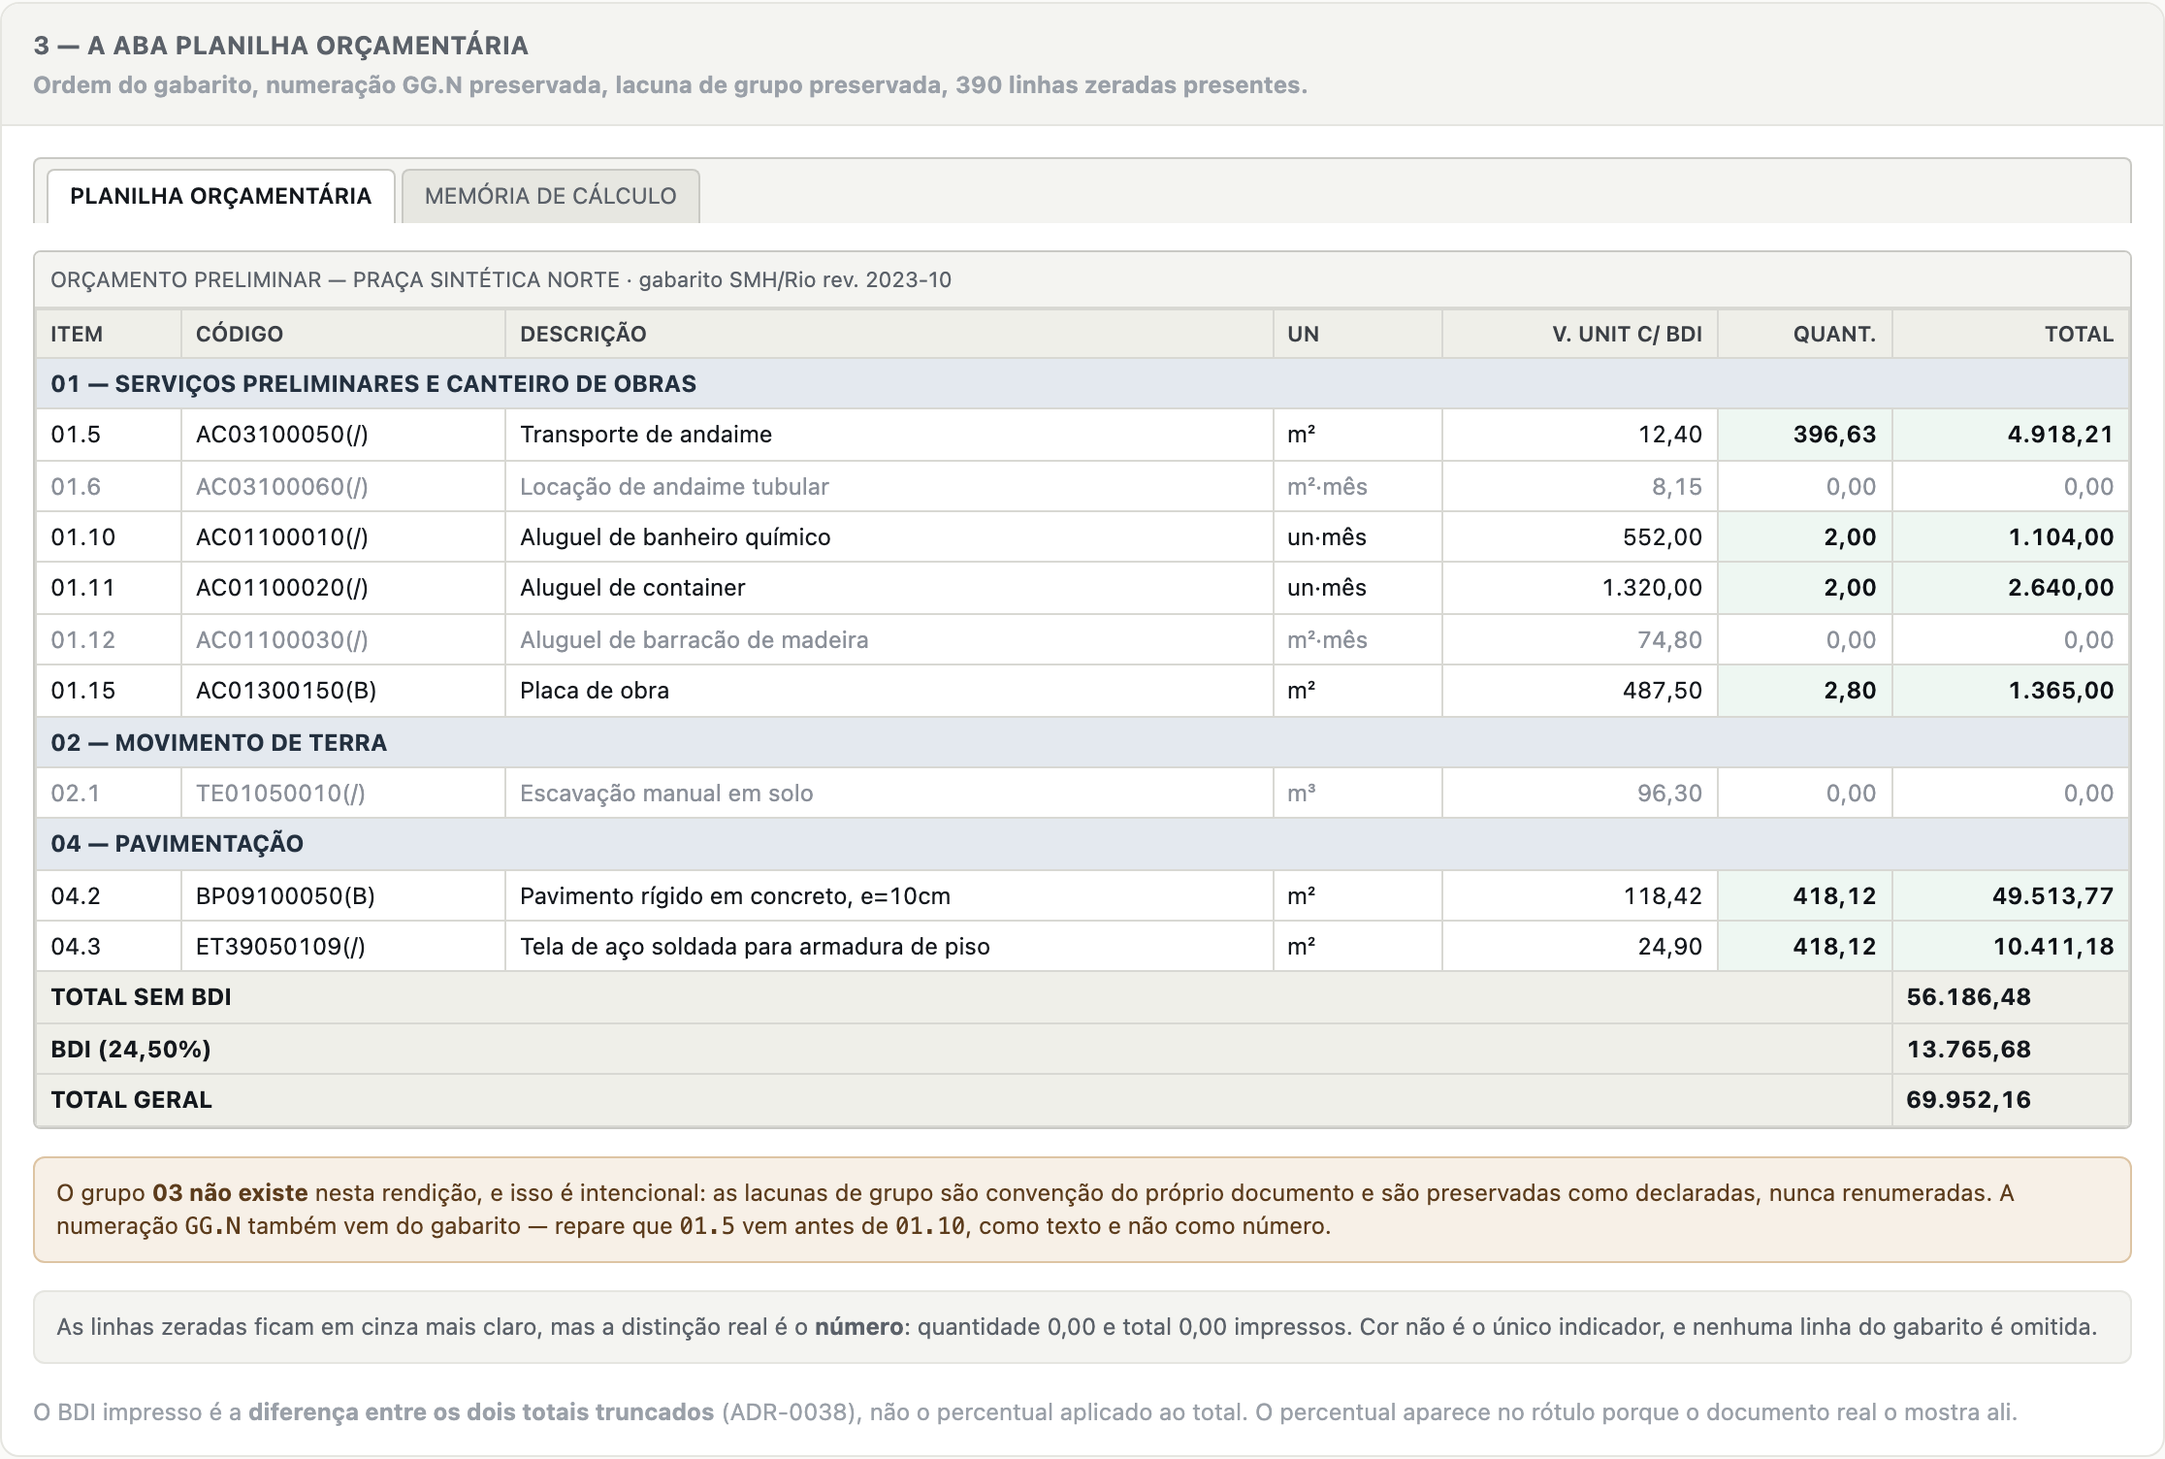
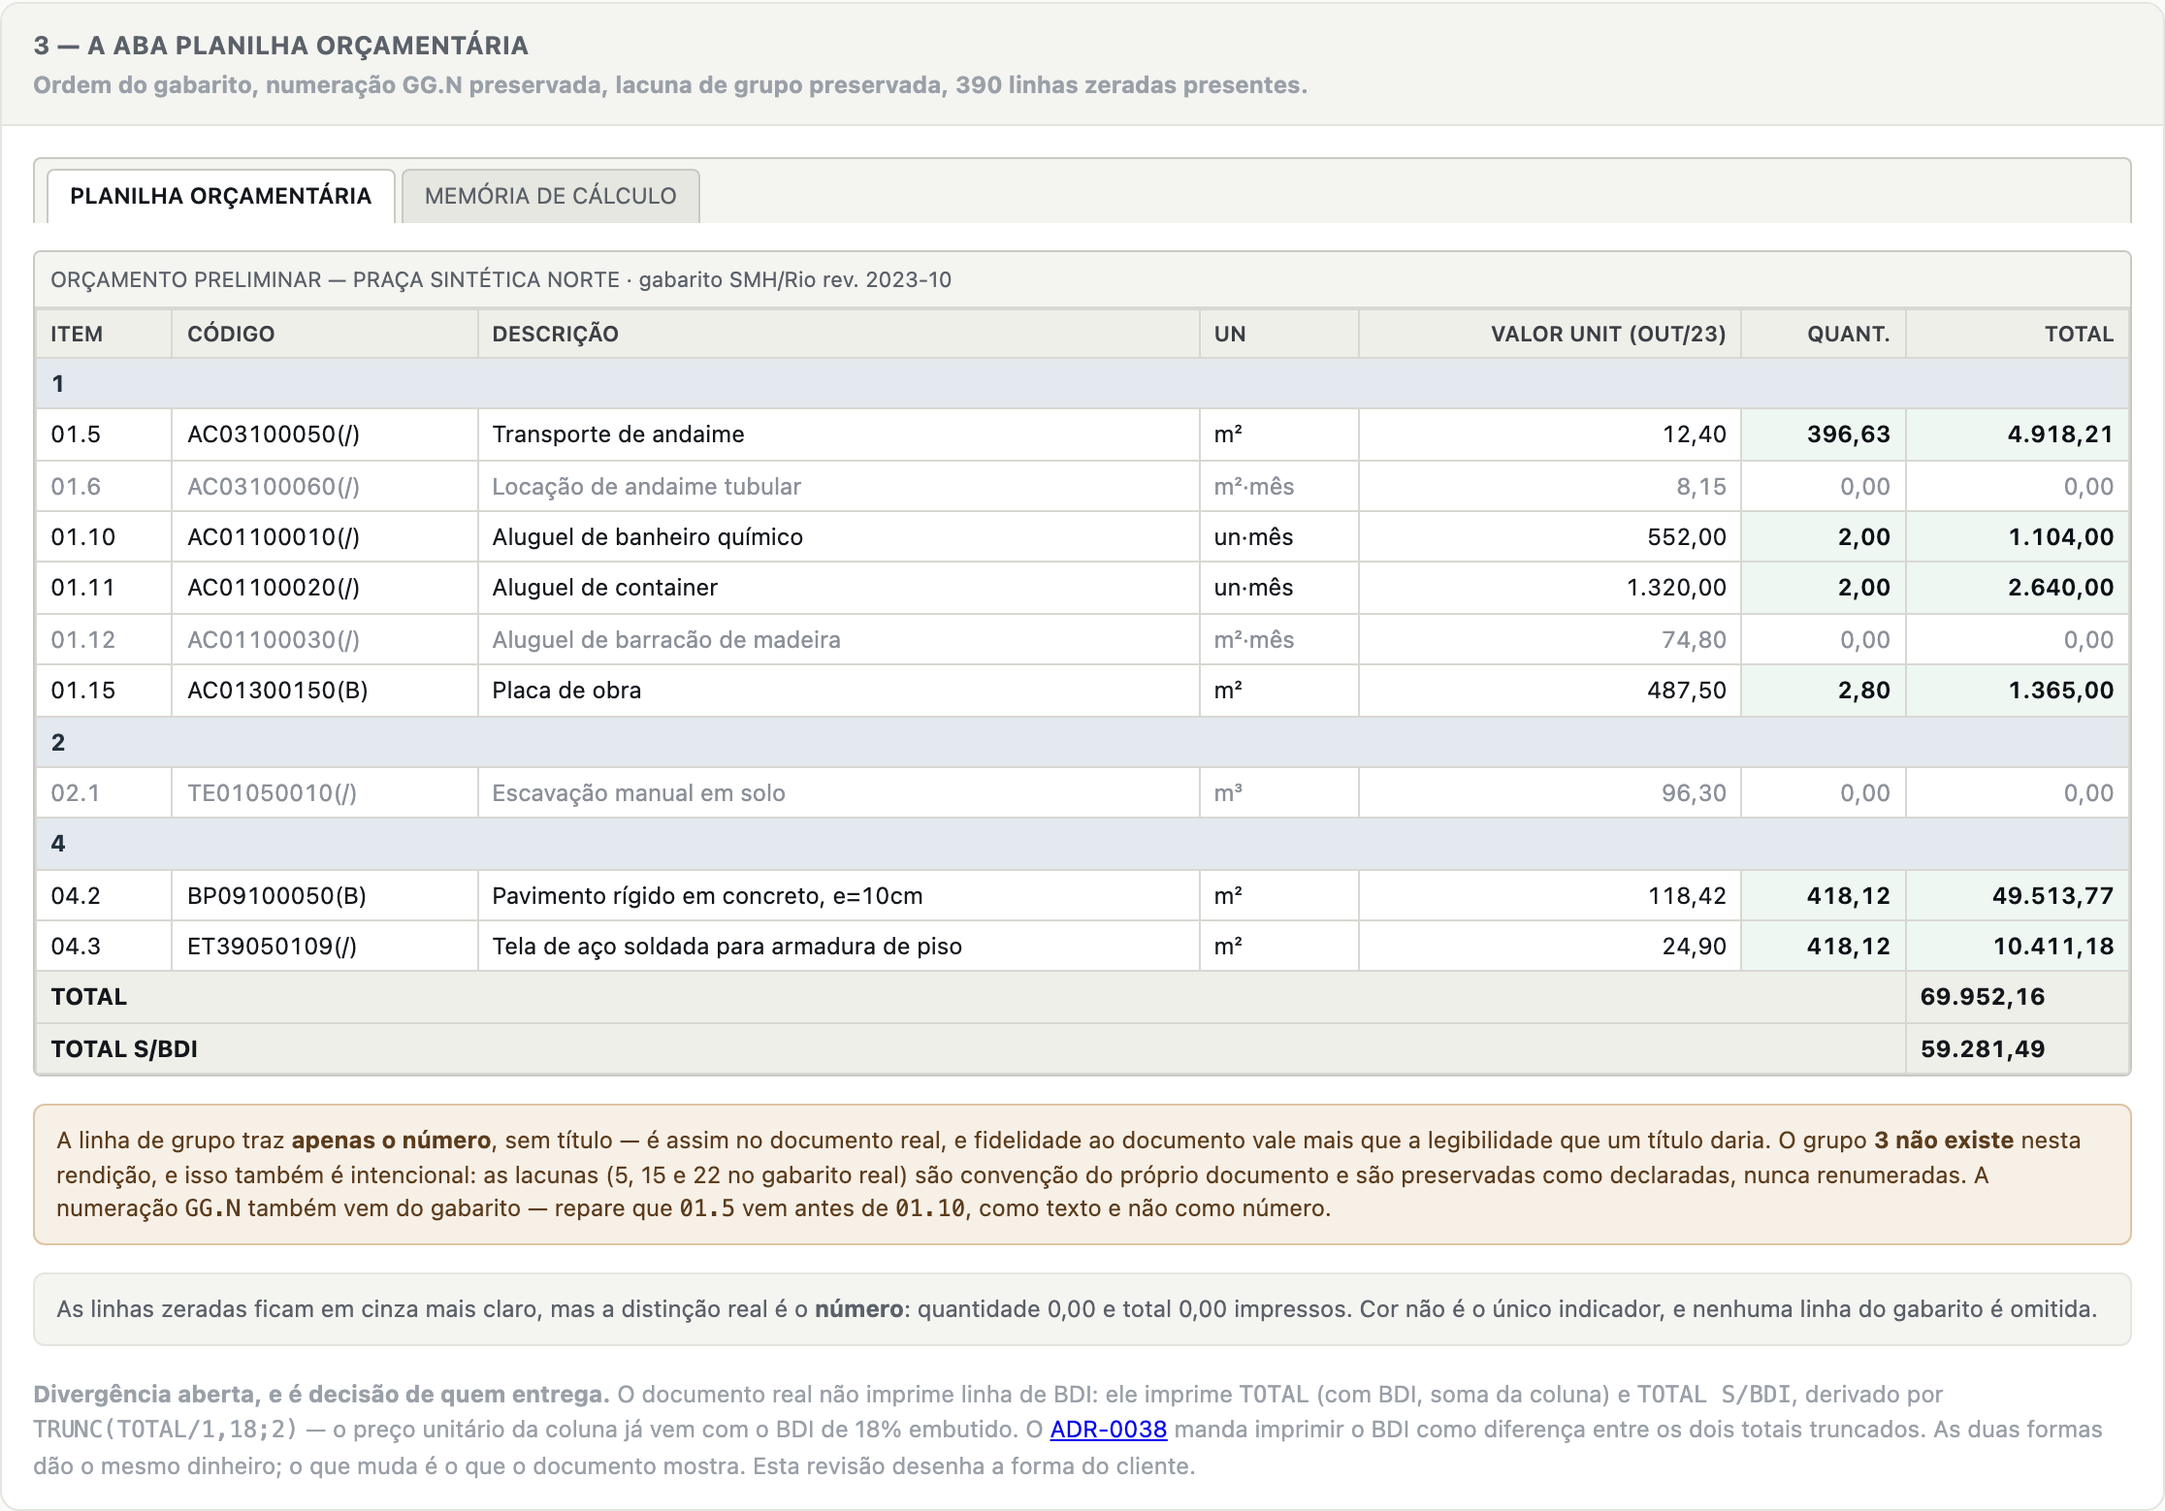
docs(F-043): revisão 2 do pacote de design, fiel ao documento real
A revisão 1 foi desenhada antes de o documento estar disponível e dizia por escrito
que a estrutura das capturas era sintética. Com os três orçamentos reais, quatro
pontos de forma se mostraram diferentes: a linha de grupo traz só o número, o rodapé
tem duas linhas (TOTAL e TOTAL S/BDI, sem linha de BDI), a coluna se chama VALOR UNIT
(OUT/23) e o BDI é 18%.

Nenhuma das sete decisões aprovadas muda — ordem fixa, linhas zeradas impressas,
numeração como texto, lacuna de grupo, carimbo de revisão, recusa de código ausente e
memória só para código com quantidade seguem palavra por palavra. Mas o que se aprova
é a rendição, então isso é revisão nova com registro próprio.

Os unknowns 2 e 3 ficam resolvidos contra o arquivo real. Abre-se uma questão no
lugar deles: o documento do cliente não imprime linha de BDI e deriva o total sem BDI
por divisão, enquanto o ADR-0038 manda imprimir o BDI como diferença entre totais
truncados. As duas dão o mesmo dinheiro, e a escolha é de quem entrega.

diff --git a/docs/features/F-043-planilha-no-gabarito-da-prefeitura/mock/planilha-no-gabarito.html b/docs/features/F-043-planilha-no-gabarito-da-prefeitura/mock/planilha-no-gabarito.html
@@ -449,7 +449,7 @@
               <h3>O que vai no arquivo</h3>
               <div class="carimbo">
                 <span><strong>Gabarito</strong> PLANILHA ORÇAMENTÁRIA — SMH/Rio</span>
-                <span><strong>Revisão</strong> 2023-10</span>
+                <span><strong>Revisão</strong> 2023-10 · BDI 18%</span>
                 <span><strong>Linhas</strong> 433 · 43 com quantidade · 390 zeradas</span>
                 <span><strong>Abas</strong> PLANILHA ORÇAMENTÁRIA · MEMÓRIA DE CÁLCULO</span>
               </div>
@@ -486,14 +486,14 @@
                   <th>CÓDIGO</th>
                   <th>DESCRIÇÃO</th>
                   <th>UN</th>
-                  <th>V. UNIT C/ BDI</th>
+                  <th>VALOR UNIT (OUT/23)</th>
                   <th>QUANT.</th>
                   <th>TOTAL</th>
                 </tr>
               </thead>
               <tbody>
                 <tr class="grupo">
-                  <td colspan="7">01 — SERVIÇOS PRELIMINARES E CANTEIRO DE OBRAS</td>
+                  <td colspan="7">1</td>
                 </tr>
                 <tr class="preenchida">
                   <td>01.5</td>
@@ -550,7 +550,7 @@
                   <td class="total">1.365,00</td>
                 </tr>
                 <tr class="grupo">
-                  <td colspan="7">02 — MOVIMENTO DE TERRA</td>
+                  <td colspan="7">2</td>
                 </tr>
                 <tr class="zerada">
                   <td>02.1</td>
@@ -562,7 +562,7 @@
                   <td class="total">0,00</td>
                 </tr>
                 <tr class="grupo">
-                  <td colspan="7">04 — PAVIMENTAÇÃO</td>
+                  <td colspan="7">4</td>
                 </tr>
                 <tr class="preenchida">
                   <td>04.2</td>
@@ -583,26 +583,24 @@
                   <td class="total">10.411,18</td>
                 </tr>
                 <tr class="total-geral">
-                  <td colspan="6">TOTAL SEM BDI</td>
-                  <td>56.186,48</td>
-                </tr>
-                <tr class="total-geral">
-                  <td colspan="6">BDI (24,50%)</td>
-                  <td>13.765,68</td>
-                </tr>
-                <tr class="total-geral">
-                  <td colspan="6">TOTAL GERAL</td>
+                  <td colspan="6">TOTAL</td>
                   <td>69.952,16</td>
+                </tr>
+                <tr class="total-geral">
+                  <td colspan="6">TOTAL S/BDI</td>
+                  <td>59.281,49</td>
                 </tr>
               </tbody>
             </table>
           </div>
           <div class="aviso gabarito">
-            O grupo <strong>03 não existe</strong> nesta rendição, e isso é intencional: as
-            lacunas de grupo são convenção do próprio documento e são preservadas como
-            declaradas, nunca renumeradas. A numeração <code>GG.N</code> também vem do gabarito —
-            repare que <code>01.5</code> vem antes de <code>01.10</code>, como texto e não como
-            número.
+            A linha de grupo traz <strong>apenas o número</strong>, sem título — é assim no
+            documento real, e fidelidade ao documento vale mais que a legibilidade que um
+            título daria. O grupo <strong>3 não existe</strong> nesta rendição, e isso também é
+            intencional: as lacunas (5, 15 e 22 no gabarito real) são convenção do próprio
+            documento e são preservadas como declaradas, nunca renumeradas. A numeração
+            <code>GG.N</code> também vem do gabarito — repare que <code>01.5</code> vem antes de
+            <code>01.10</code>, como texto e não como número.
           </div>
           <div class="aviso">
             As linhas zeradas ficam em cinza mais claro, mas a distinção real é o
@@ -611,9 +609,14 @@
           </div>
         </div>
         <p class="nota-implementador">
-          O BDI impresso é a <strong>diferença entre os dois totais truncados</strong>
-          (ADR-0038), não o percentual aplicado ao total. O percentual aparece no rótulo porque o
-          documento real o mostra ali.
+          <strong>Divergência aberta, e é decisão de quem entrega.</strong> O documento real
+          não imprime linha de BDI: ele imprime <code>TOTAL</code> (com BDI, soma da coluna) e
+          <code>TOTAL S/BDI</code>, derivado por <code>TRUNC(TOTAL/1,18;2)</code> — o preço
+          unitário da coluna já vem com o BDI de 18% embutido. O
+          <a href="../../../adr/0038-bdi-como-conceito-de-pre-licitacao.md">ADR-0038</a> manda
+          imprimir o BDI como diferença entre os dois totais truncados. As duas formas dão o
+          mesmo dinheiro; o que muda é o que o documento mostra. Esta revisão desenha a forma do
+          cliente.
         </p>
       </section>
 
@@ -705,7 +708,7 @@
               <h3>Auditoria divergente</h3>
               <div class="aviso recusa">
                 <strong>Nada foi publicado.</strong> O auditor reabriu o arquivo e recomputou as
-                fórmulas: a célula <strong>G118</strong> tem 49.513,77 gravado e 49.513,78
+                fórmulas: a célula <strong>H118</strong> tem 49.513,77 gravado e 49.513,78
                 recomputado.
               </div>
               <p>

diff --git a/docs/features/F-043-planilha-no-gabarito-da-prefeitura/mock/README.md b/docs/features/F-043-planilha-no-gabarito-da-prefeitura/mock/README.md
@@ -1,8 +1,8 @@
 # Design Approval Package — F-043, a planilha no gabarito da prefeitura
 
 Classification: INTERFACE_CHANGE  
-Revision: 1  
-Status: **Approved (2026-08-28)**  
+Revision: **2**  
+Status: **Awaiting approval** (a revisão 1 foi aprovada em 2026-08-28)  
 Date: 2026-08-28  
 Produced by: agente (Claude Code)
 
@@ -15,15 +15,38 @@ Produced by: agente (Claude Code)
 > [ADR-0059](../../../adr/0059-item-contratado-fora-da-tabela-sco.md) já foi cumprido em
 > 2026-08-28.
 
+## Por que existe uma revisão 2
+
+A revisão 1 foi desenhada **antes** de o documento real estar disponível, e dizia por escrito
+que a estrutura das capturas era sintética e não era especificação. Com os três orçamentos
+reais em mãos (2026-08-28), quatro pontos de **forma** do documento se mostraram diferentes do
+que a rendição mostrava. A revisão 2 corrige a rendição para o que o documento realmente é.
+
+| Revisão 1 | Documento real, agora na revisão 2 |
+| --- | --- |
+| linha de grupo com título (`01 — SERVIÇOS PRELIMINARES…`) | linha de grupo com **apenas o número** (`1`) |
+| rodapé de três linhas: TOTAL SEM BDI, BDI, TOTAL GERAL | **duas** linhas: `TOTAL` (com BDI) e `TOTAL S/BDI`, nessa ordem, **sem linha de BDI** |
+| coluna rotulada `V. UNIT C/ BDI` | rotulada **`VALOR UNIT (OUT/23)`** — o valor é o mesmo, com BDI embutido |
+| BDI de 24,50% | **18%** |
+
+**Nenhuma das sete decisões aprovadas na revisão 1 muda.** Ordem fixa do gabarito, linhas
+zeradas impressas, numeração como texto, lacuna de grupo preservada, carimbo de revisão,
+recusa de código ausente e memória só para código com quantidade continuam valendo palavra por
+palavra. A revisão 2 é de fidelidade ao documento, não de desenho — mas é revisão nova e
+precisa de registro próprio, porque o que se aprova é a rendição.
+
+A verificação que produziu esta revisão está em [`../evidence.md`](../evidence.md), junto com
+dois achados sobre os arquivos do cliente que **não** são escopo desta feature.
+
 ## Registro de aprovação
 
 | Campo | Valor |
 | --- | --- |
-| O que se aprova | a forma do arquivo publicado na revisão 1 e as sete decisões listadas abaixo |
-| Aprovado por | Daniel Campos |
-| Data | 2026-08-28 |
-| Revisão | 1 |
-| Explicitamente **não** coberto | a copy final; os códigos, descrições, preços e a estrutura de grupos das capturas, que são **sintéticos**; o gabarito real de 433 linhas, que é dado a fornecer; e o aceite do arquivo gerado contra o documento do cliente, que é gate próprio e posterior |
+| O que se aprova | a forma do arquivo publicado na revisão 2 e as sete decisões da revisão 1, que ela preserva |
+| Aprovado por | — |
+| Data | — |
+| Revisão | 2 |
+| Explicitamente **não** coberto | a copy final; os códigos, descrições e preços das capturas, que continuam **sintéticos** (a *estrutura* deixou de ser); **qual das duas formas de rodapé vale** — a do cliente, desenhada aqui, ou a do ADR-0038 —, que é decisão de quem entrega; e o aceite do arquivo gerado contra o documento do cliente, que é gate próprio e posterior |
 
 Aprovar esta revisão não aprova a seguinte: pacote materialmente alterado é revisão nova e
 precisa de registro próprio.
@@ -48,9 +71,9 @@ capturas. Decidido por Daniel Campos em 2026-08-28.
 
 Os números são sintéticos, mas **aritmeticamente consistentes**, e as contas fecham na
 rendição: `396,63 × 12,40 = 4.918,21` (truncado), `418,12 × 118,42 = 49.513,77`,
-`418,12 × 24,90 = 10.411,18`, soma da coluna TOTAL `= 69.952,16`; total sem BDI `56.186,48`,
-BDI de 24,50% `= 13.765,68`, e `56.186,48 + 13.765,68 = 69.952,16`. Na memória,
-`418,20 − 0,08 = 418,12`.
+`418,12 × 24,90 = 10.411,18`, soma da coluna TOTAL `= 69.952,16` e
+`TRUNC(69.952,16 ÷ 1,18; 2) = 59.281,49` — a mesma derivação que o documento real usa. Na
+memória, `418,20 − 0,08 = 418,12`.
 
 ## Superfícies e estados incluídos
 
@@ -130,11 +153,15 @@ essa exceção.
 
 Nada aqui é resolvido por um agente durante a implementação.
 
-- **De onde sai o preço impresso** (unknown 2 da feature). O documento real imprime
-  `VALOR UNIT (OUT/23)` na planilha orçamentária e `COM BDI` no gabarito padrão — duas bases
-  distintas no mesmo arquivo. O pacote desenha **`V. UNIT C/ BDI`**, que é a base que o
-  escritor de hoje já usa para compor o total. Confirmar contra o arquivo real; se for a
-  outra, muda a coluna e é revisão nova.
+- ~~**De onde sai o preço impresso** (unknown 2 da feature)~~ — **resolvido em 2026-08-28**
+  contra o arquivo real: a coluna `VALOR UNIT (OUT/23)` traz o preço **com BDI**, porque o
+  rodapé deriva o total sem BDI dividindo o total por 1,18. É a mesma base que o escritor já
+  usava para compor o total, e a revisão 2 imprime o rótulo real.
+
+- **Qual forma de rodapé vale.** O documento do cliente imprime `TOTAL` e `TOTAL S/BDI` e
+  **não** imprime linha de BDI; o [ADR-0038](../../../adr/0038-bdi-como-conceito-de-pre-licitacao.md)
+  manda imprimir o BDI como diferença entre totais truncados. As duas dão o mesmo dinheiro. A
+  revisão 2 desenha a forma do cliente, e a escolha é de quem entrega à prefeitura.
 - **Preço das linhas sem quantidade.** O pacote imprime o preço declarado no gabarito quando
   há um, e deixa a célula vazia quando não há. Se o documento real imprime preço em todas as
   390, o gabarito precisa trazê-los — e isso é dado, não código.

diff --git a/docs/features/F-043-planilha-no-gabarito-da-prefeitura/feature.md b/docs/features/F-043-planilha-no-gabarito-da-prefeitura/feature.md
@@ -119,11 +119,13 @@ fail-closed que já protege a medição.
 1. **O gabarito é por lote do contrato ou único para todas as praças?** Os três lotes têm
    listas diferentes (328/383/112 códigos). Se for por lote, a rodada precisa declarar em
    qual lote a praça entra, e isso muda o modelo.
-2. **De onde sai o preço impresso.** O documento real imprime `VALOR UNIT (OUT/23)` na
-   planilha orçamentária e `COM BDI` no gabarito padrão — duas bases distintas no mesmo
-   arquivo. Confirmar qual coluna a entrega exige.
-3. **O gabarito real é o da aba `PLANILHA PADRÃO ORDENADA`** (518 códigos) **ou o da
-   `PLANILHA ORÇAMENTÁRIA`** (433)? Os dois divergem em conteúdo e numeração — na padrão,
+2. ~~**De onde sai o preço impresso.**~~ **Resolvido em 2026-08-28** contra o arquivo real: a
+   coluna `VALOR UNIT (OUT/23)` traz o preço **com BDI**, porque o rodapé deriva o total sem
+   BDI dividindo o total por 1,18 (BDI de 18%). Ver [`evidence.md`](evidence.md).
+3. ~~**O gabarito real é o da aba `PLANILHA PADRÃO ORDENADA`** (518 códigos) **ou o da
+   `PLANILHA ORÇAMENTÁRIA`** (433)?~~ **Decidido em 2026-08-28** (Daniel Campos): a
+   `PLANILHA ORÇAMENTÁRIA`, de 433 códigos, conferida linha a linha em
+   [`evidence.md`](evidence.md). Texto original: Os dois divergem em conteúdo e numeração — na padrão,
    `01.8` é "Caminhoneta de serviço"; na orçamentária, "Veículo de serviço". Isso indica
    revisões diferentes do mesmo gabarito, e a entrega precisa dizer qual vale.
 
@@ -140,8 +142,11 @@ fail-closed que já protege a medição.
 
 ## Human Gates
 
-1. ~~**Design Approval Package**~~ — `INTERFACE_CHANGE`: o arquivo publicado muda de forma.
-   Revisão 1 **aprovada em 2026-08-28** (Daniel Campos): [`mock/README.md`](mock/README.md).
+1. **Design Approval Package** — `INTERFACE_CHANGE`: o arquivo publicado muda de forma.
+   Revisão 1 **aprovada em 2026-08-28** (Daniel Campos). Com o documento real em mãos no mesmo
+   dia, quatro pontos de forma da rendição se mostraram diferentes do documento e produziram a
+   **revisão 2**, que aguarda aprovação — ela preserva as sete decisões da revisão 1 e corrige
+   só a fidelidade: [`mock/README.md`](mock/README.md).
 
    Na mesma data o dono decidiu **onde o gabarito vive**: artefato de plataforma, no molde do
    acervo de catálogos da [F-037](../F-037-acervo-de-catalogos/feature.md) — publicado uma
